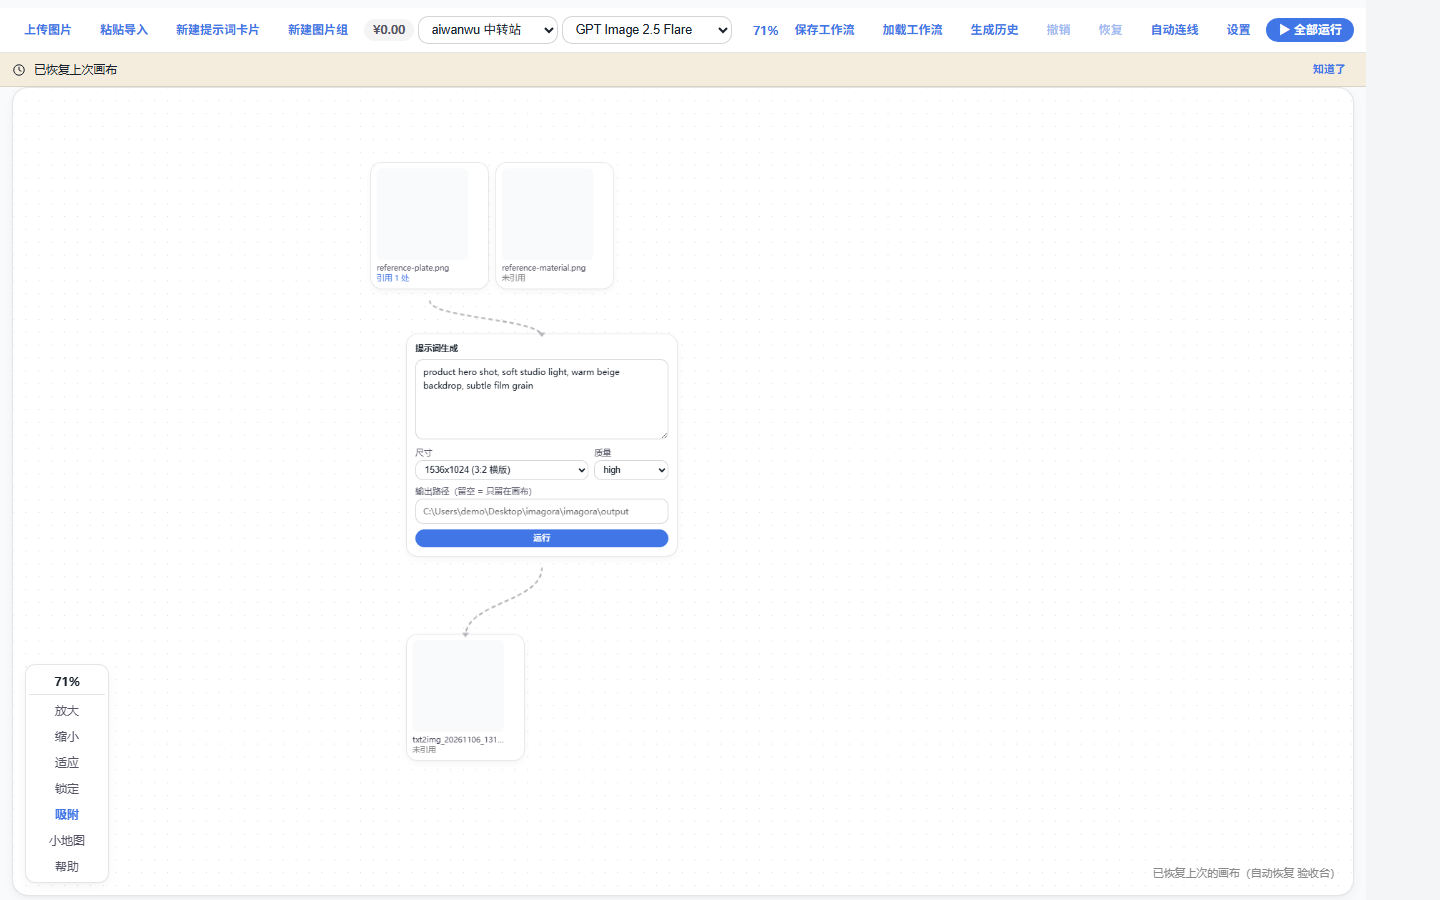
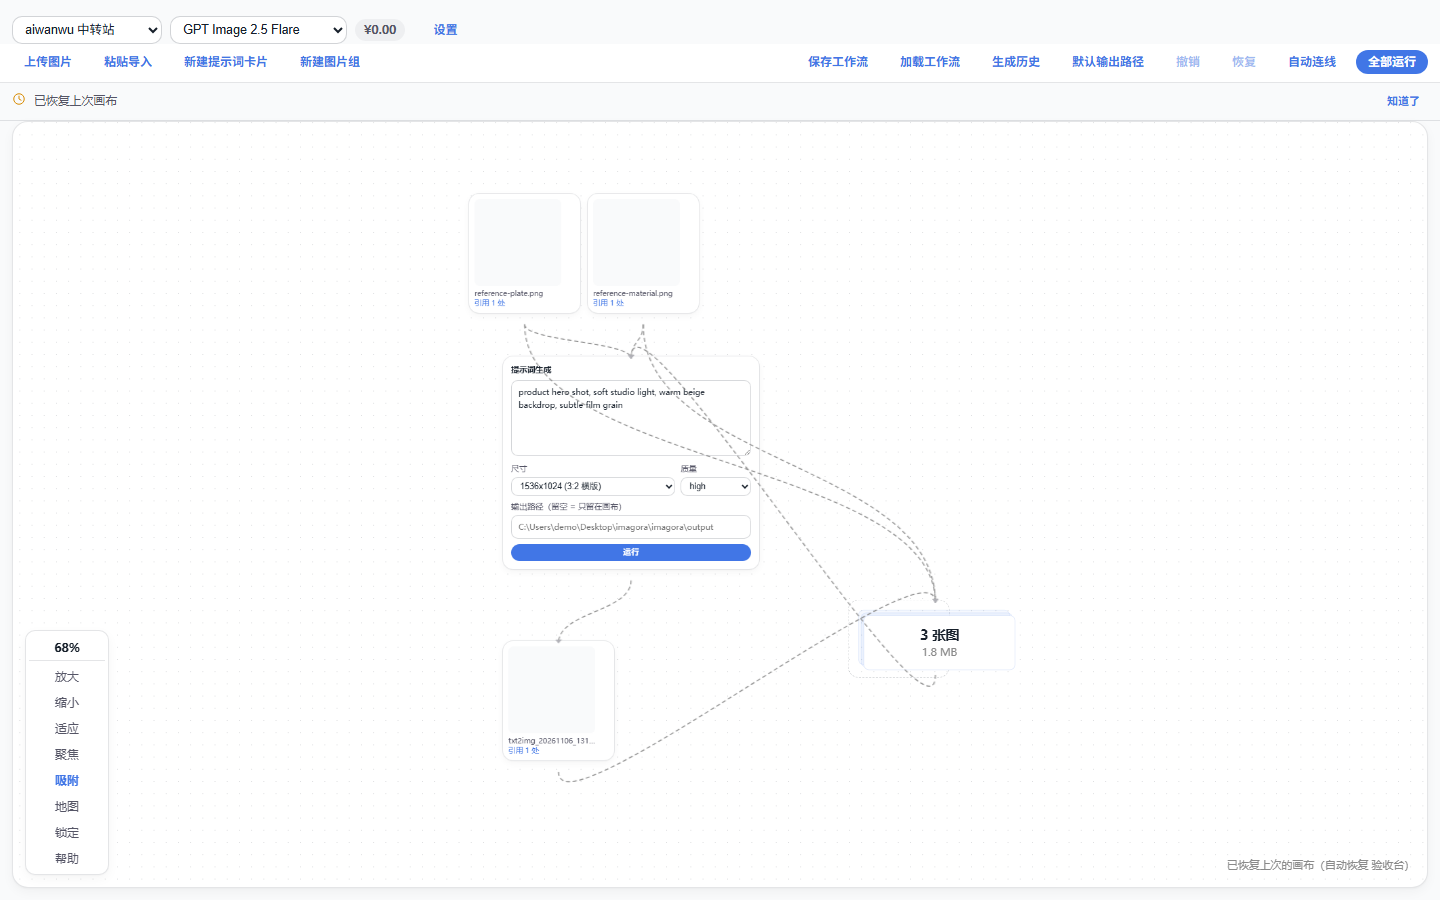
docs: 补第二轮的拖拽与弹窗两条硬约束、顶栏两行与控件坞行序
- ARCHITECTURE 新增「拖拽与弹窗」一节：dragover 读不到 getData（必须留
  dragstart 的 ref 兜底）、弹窗要自带基座（宿主 Modal 宽度按自己内容定）、
  im-root 要 flex 撑满（否则画布右侧留空白像被裁）
- 四角一节补顶栏两行与控件坞行序，并注明行序别调
- 笔记补第二轮四处实测结论：拖拽、弹窗基座、根节点宽度、状态灯去光晕
- README 截图按最新观感重拍

diff --git a/.agents/notes/2026-11-07-imagora-visual-parity.md b/.agents/notes/2026-11-07-imagora-visual-parity.md
@@ -51,3 +51,23 @@
 | 右下 | 日志轮播         | 最多 5 条、`pointer-events: none`，否则挡住画布拖拽                            |
 
 顶栏只放全局动作（保存 / 加载 / 生成历史 / 撤销 / 恢复 / 自动连线 / 全部运行），依赖选区的动作一律进右上角——这是原版的分法，也是插件第一版混在一起的地方。
+
+## 第二轮补的：拖拽、弹窗、组件细节
+
+照搬时漏掉、实测才发现的四处：
+
+1. **`dragover` 阶段读不到 `dataTransfer.getData`**（浏览器只在 `drop` 时才允许读自定义类型）。第一版靠它在 dragover 判意图，永远返回 null → 没调 `preventDefault` → 浏览器不认这个 drop，表现是「能拖、松手没反应、胶囊一直显示松开取消」。正解：`dragstart` 时用 ref 登记意图，dragover 判定时作为 fallback；胶囊位置由 window 级 `dragover` 全局跟随。
+2. **弹窗必须自带基座**。宿主 `ui.Modal` 的面板宽度按它自己的内容定，各对话框又在里面写死 `minWidth`，塞进表单必然溢出——被裁的就是右边那一块。原版的 `ModalShell` 是全屏 grid 居中 + 四档宽度 + `body` 只负责滚。
+3. **`.im-root` 没撑满**会被 flex 父容器按内容收缩，画布右侧留一条空白，看起来同样像「被裁掉」。根节点要 `flex: 1 1 auto; width: 100%`。
+4. **状态灯不带光晕环**。原版就是 10px 纯色圆点，环在密集画布上会糊成一片；生成中靠圆点自身呼吸表示。
+
+## 位置归属（补：顶栏是两行）
+
+| 行               | 放什么                                                                                                                                                         |
+| ---------------- | -------------------------------------------------------------------------------------------------------------------------------------------------------------- |
+| 第一行（页头）   | 来源 / 模型 / 成本 / 设置——与「出图配置」有关的部分                                                                                                            |
+| 第二行（工具栏） | 左：上传图片 / 粘贴导入 / 新建提示词卡片 / 新建图片组；右：保存工作流 / 加载工作流 / 生成历史 / 默认输出路径 / 撤销 / 恢复 / 自动连线 / 全部运行 / 取消全部(N) |
+
+控件坞行序（别调，用户靠位置记）：缩放读数 → 放大 → 缩小 → 适应 → 聚焦 → 吸附 → 地图 → 锁定 → 帮助。
+
+图片组用叠卡表示「一组 N 张」：只往左上错开（右下会伸出卡面压到邻居）、不旋转不同色（旋转让每组朝向都不一样）、叠卡数量夹到 3 张（40 张的组渲染 39 层合成层会掉帧）。
